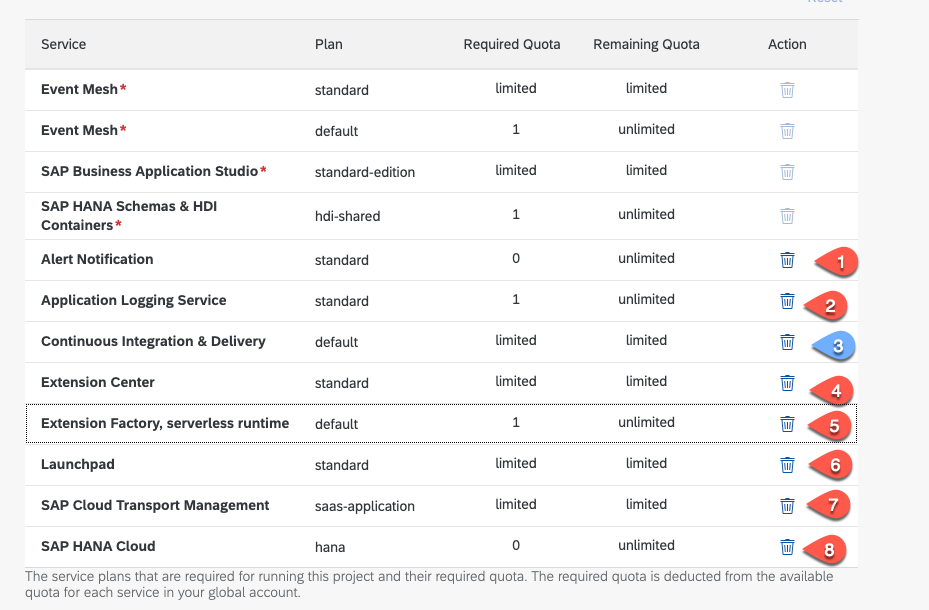
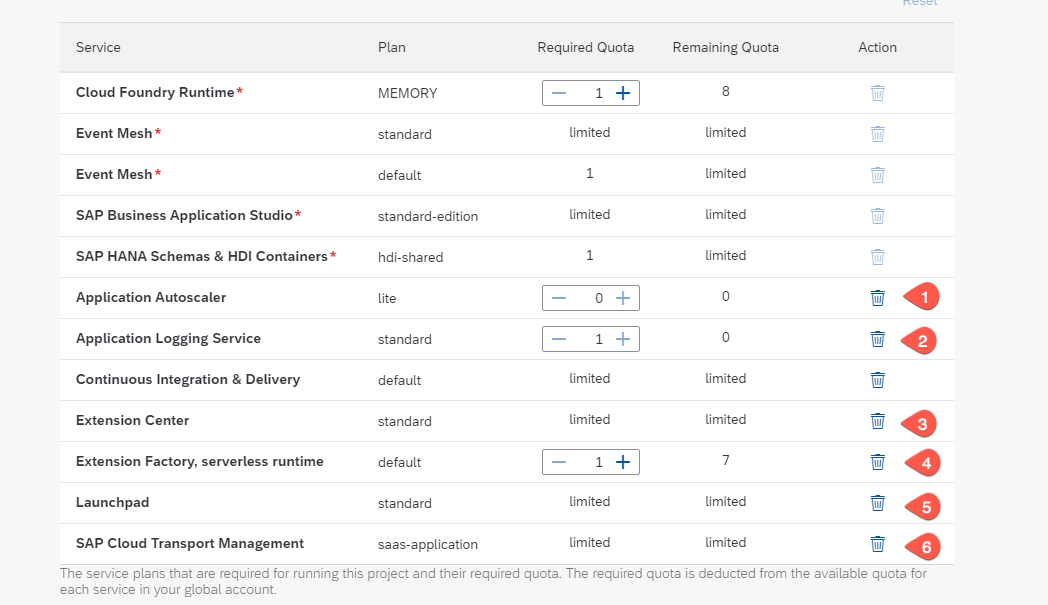
validation update of boosters

diff --git a/mission/scp-setup/README.md b/mission/scp-setup/README.md
@@ -48,7 +48,7 @@ Before running the booster please check for which regions and infrastructures th
 
    ![Booster](./images/booster-02.png)
  
-3. Select Components to get an overview of them. Press Start
+3. Select Components to get an overview of them. You can also view the cost estimate for running this scenario in a productive account. Choose **Start**
 
    ![Booster](./images/booster-03.png)
 
@@ -57,24 +57,25 @@ Before running the booster please check for which regions and infrastructures th
 
 
    > Hint: If you get a warning check which services are affected. If they are not relevant for this mission (see the next step) you can just ignore it.
-            ![Booster Warning](./images/booster-04a.png)
+   
+   ![Booster Warning](./images/booster-04a.png)
 
 5. Setup Subaccount
    
-   You find the list of the services that will acctivated by the Booster. For this mission the **Countinuous Integration & Delivery** service is optional. Remove it if you don't want to use it.**Alert Notification**, **Application Logging**, the **Extension Center**, the **Extension Factory serveless runtime**, the **Launchpad** and the **SAP Cloud Transport Management Service** are not used in this  mission - therefore you can remove them. We will install the  **SAP HANA Cloud** DB in a separate step - so remove it also. 
+   - You find the list of the services that will acctivated by the Booster. For this mission the **Countinuous Integration & Delivery** service is optional. Remove it if you don't want to use it.
+   - Services like **Alert Notification**, **Application Logging**, the **Extension Center**, the **Extension Factory serveless runtime**, **Launchpad** and the **SAP Cloud Transport Management Service** are not used in this  mission - therefore you can remove them. We will install the  **SAP HANA Cloud** DB in a separate step - so remove it also. 
    
    ![Booster](./images/booster-05.png)
 
    >By using a subscription-based SAP BTP account you have to set the quota of the **Cloud Foundry Runtime** to 3
    ![Booster](./images/booster-05a.png)
- 
-
-    1. In the sub section enter a meaningful Subaccount name - in general it reflects the organisation of your team etc.
-    2. Select your Provider
-    3. Select the Region
-    4. Enter a meaningful Org Name
-    5. Enter a space name - this should reflect the name of your project
-    6. Press Next   
+   
+   1. In the sub section enter a meaningful Subaccount name - in general it reflects the organisation of your team etc.
+   2. Select your Provider
+   3. Select the Region
+   4. Enter a meaningful Org Name
+   5. Enter a space name - this should reflect the name of your project
+   6. Press Next   
   
    ![Booster](./images/booster-06.png)
 
